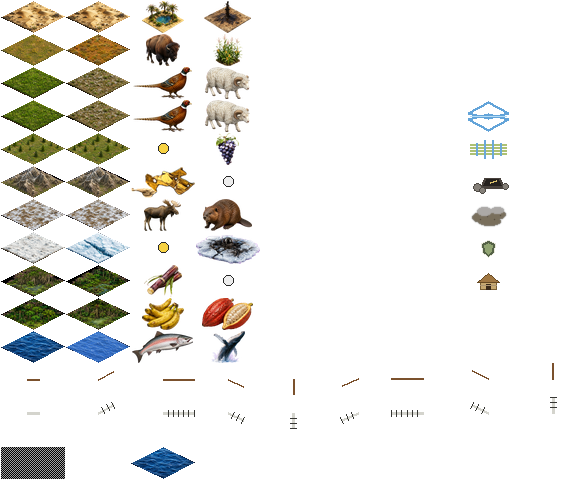
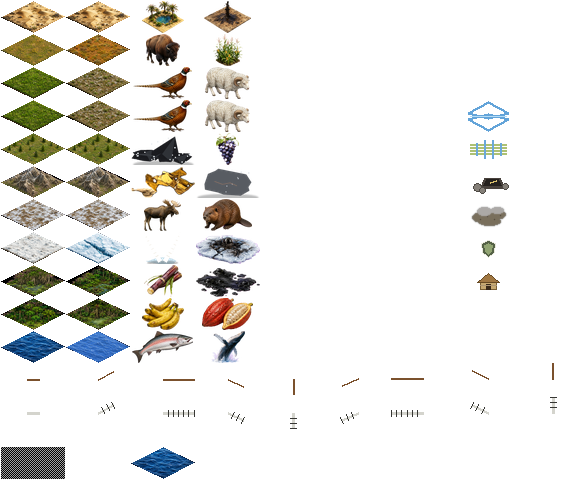
Paint the four special-resource markers left by issue #18
coal, iron, tusked ivory and the oil slick were still the flat disc
build_terrain1 draws when Specials/ has no art. A deterministic drawing
script keys them as 300x300 cutouts in the hand-made idiom; the slick is
keyed from the project-original oil_slick alt painting, the way #150 cut
the gold. TERRAIN1 regenerates with all rows painted.

diff --git a/scripts/generate_special_cutouts.py b/scripts/generate_special_cutouts.py
@@ -1,0 +1,345 @@
+#!/usr/bin/env python3
+"""Paint the four still-procedural special-resource markers as keyed cutouts.
+
+crhy/rhYciv#18 left coal (hills 1), iron (mountains 2), tusked ivory
+(glacier 1) and peat/oil (swamp 2) as the flat disc that
+build_standalone_sheets.build_terrain1 draws when Specials/ has no art. This
+script draws all four as 300x300 RGBA cutouts with transparent corners, in the
+hand-made idiom of docs/notes/rhyciv-generated-art-direction.md: irregular
+outlines, jittered detail, and the thing each resource communicates reading
+first -- a speckly coal lump, a banded grey ore rock, an ivory tusk pair, a
+black oil slick.
+
+Provenance (docs/ASSET-PROVENANCE.md): the three drawn markers are original
+vector work by this script; the swamp-2 slick is keyed out of the keyed
+project-original alt painting ~/rhYcivtextures/terrain/alts/oil_slick.png the
+same way #150 keyed mountains_1 out of Other/gold.jpg. Every marker is
+composed over its terrain diamond into a contact sheet for eye-checking.
+
+Usage:
+    python3 scripts/generate_special_cutouts.py [--check]
+"""
+
+from __future__ import annotations
+
+import argparse
+import math
+import random
+import sys
+from pathlib import Path
+
+import numpy as np
+from PIL import Image, ImageChops, ImageDraw, ImageFilter
+
+REPOSITORY = Path(__file__).resolve().parents[1]
+SPECIALS = REPOSITORY / "RaylibUI" / "FOSSart" / "Terrain" / "Specials"
+TERRAIN = REPOSITORY / "RaylibUI" / "FOSSart" / "Terrain"
+OIL_SOURCE = Path.home() / "rhYcivtextures" / "terrain" / "alts" / "oil_slick.png"
+PREVIEW_DIR = Path("/tmp/f242-previews")
+
+SIZE = 300       # the canvas every special cutout ships on
+SS = 2           # drawn supersampling factor; the 300x300 result is filtered down
+
+# The fallback discs in build_standalone_sheets we are replacing; nothing here
+# may land near these colours so the shipped markers stay distinguishable.
+DISC_YELLOW = (246, 205, 47)
+DISC_GREY = (235, 235, 235)
+
+# Ground line of the 300x300 slot: the bottom of the tile's far edge, where the
+# other specials bottom-anchor (mountains_1 alpha bbox ends at 299).
+GROUND = 296
+
+
+def _blob(cx: float, cy: float, rx: float, ry: float, rng: random.Random,
+          n: int = 11, wobble: float = 0.20) -> list[tuple[float, float]]:
+    """An irregular closed outline around an ellipse: jittered angles, jittered
+    radii. Nothing here comes out ruler-round."""
+    angles = sorted(rng.uniform(0.0, math.tau) for _ in range(n))
+    points = []
+    for a in angles:
+        k = rng.uniform(1.0 - wobble, 1.0 + wobble)
+        points.append((cx + rx * k * math.cos(a), cy + ry * k * math.sin(a)))
+    return points
+
+
+def _scale(points: list[tuple[float, float]], factor: int) -> list[tuple[float, float]]:
+    return [(x * factor, y * factor) for x, y in points]
+
+
+def _bezier(p0, p1, p2, steps: int = 28) -> list[tuple[float, float]]:
+    out = []
+    for i in range(steps + 1):
+        t = i / steps
+        mt = 1.0 - t
+        x = mt * mt * p0[0] + 2 * mt * t * p1[0] + t * t * p2[0]
+        y = mt * mt * p0[1] + 2 * mt * t * p1[1] + t * t * p2[1]
+        out.append((x, y))
+    return out
+
+
+def _tapered(center: list[tuple[float, float]], w0: float, w1: float) -> list[tuple[float, float]]:
+    """A closed outline around a polyline whose width tapers w0 -> w1."""
+    left, right = [], []
+    for i, (x, y) in enumerate(center):
+        px, py = center[max(i - 1, 0)]
+        nx, ny = center[min(i + 1, len(center) - 1)]
+        dx, dy = nx - px, ny - py
+        length = max(math.hypot(dx, dy), 1e-6)
+        nx, ny = -dy / length, dx / length
+        t = i / max(len(center) - 1, 1)
+        w = w0 + (w1 - w0) * t
+        left.append((x + nx * w, y + ny * w))
+        right.append((x - nx * w, y - ny * w))
+    return left + right[::-1]
+
+
+def _shadow(canvas: Image.Image, cx: float, cy: float, rx: float, ry: float) -> None:
+    """A soft grounding shadow so the lump sits on the tile instead of floating."""
+    layer = Image.new("RGBA", canvas.size, (0, 0, 0, 0))
+    ImageDraw.Draw(layer).ellipse(_scale([(cx - rx, cy - ry), (cx + rx, cy + ry)], SS),
+                                  fill=(12, 14, 16, 70))
+    canvas.alpha_composite(layer.filter(ImageFilter.GaussianBlur(3 * SS)))
+
+
+def _finish(canvas: Image.Image, name: str) -> Image.Image:
+    small = canvas.resize((SIZE, SIZE), Image.Resampling.LANCZOS)
+    alpha = small.getchannel("A")
+    bbox = alpha.getbbox()
+    if bbox is None:
+        raise SystemExit(f"{name}: empty marker")
+    print(f"  {name}  alpha bbox {bbox}")
+    return small
+
+
+def coal() -> Image.Image:
+    """hills 1: a rough coal lump with speckles."""
+    rng = random.Random(1918)
+    canvas = Image.new("RGBA", (SIZE * SS, SIZE * SS), (0, 0, 0, 0))
+    draw = ImageDraw.Draw(canvas)
+
+    lumps = [
+        _blob(150, 238, 84, 48, rng, 12, 0.24),
+        _blob(84, 262, 52, 30, rng, 10, 0.26),
+        _blob(216, 264, 44, 28, rng, 10, 0.26),
+    ]
+    _shadow(canvas, 150, GROUND + 2, 118, 16)
+    for pts in lumps:
+        draw.polygon(_scale(pts, SS), fill=(26, 27, 31, 255), outline=(15, 15, 18, 255))
+
+    # Facets: one or two broken planes per lump catching the light. Coal is
+    # angular and half-gloss, so the facets are flat triangles, not shading.
+    for pts in lumps:
+        xs = [p[0] for p in pts]
+        ys = [p[1] for p in pts]
+        mid_x, mid_y = sum(xs) / len(xs), sum(ys) / len(ys)
+        for _ in range(2):
+            a = rng.randrange(len(pts))
+            b = rng.randrange(len(pts))
+            apex = (mid_x + rng.uniform(-14, 14), mid_y + rng.uniform(-16, 8))
+            tri = [pts[a], pts[b], apex]
+            tone = rng.choice((41, 47, 55))
+            draw.polygon(_scale(tri, SS), fill=(tone, tone + 3, tone + 8, 255))
+
+    # Speckle: the glitter a coal seam reads as at a glance.
+    for pts in lumps:
+        xs = [p[0] for p in pts]
+        ys = [p[1] for p in pts]
+        for _ in range(9):
+            x = rng.uniform(min(xs) + 8, max(xs) - 8)
+            y = rng.uniform(min(ys) + 6, max(ys) - 6)
+            r = rng.uniform(1.6, 3.0)
+            draw.ellipse(_scale([(x - r, y - r), (x + r, y + r)], SS),
+                         fill=(222, 228, 234, rng.randint(150, 215)))
+    return _finish(canvas, "hills_1 (coal)")
+
+
+def iron() -> Image.Image:
+    """mountains 2: a banded grey ore rock."""
+    rng = random.Random(2027)
+    canvas = Image.new("RGBA", (SIZE * SS, SIZE * SS), (0, 0, 0, 0))
+    draw = ImageDraw.Draw(canvas)
+
+    rock = _blob(150, 232, 102, 56, rng, 13, 0.18)
+    _shadow(canvas, 150, GROUND + 2, 122, 15)
+    draw.polygon(_scale(rock, SS), fill=(88, 92, 98, 255), outline=(60, 62, 66, 255))
+
+    # Bands: wobbly strata drawn across the whole rock, then joined to its
+    # silhouette by a mask -- the bands end where the rock ends instead of
+    # lying on top of a hard outline.
+    mask = Image.new("L", canvas.size, 0)
+    ImageDraw.Draw(mask).polygon(_scale(rock, SS), fill=255)
+    bands = Image.new("RGBA", canvas.size, (0, 0, 0, 0))
+    bdraw = ImageDraw.Draw(bands)
+    tones = [(64, 67, 72), (118, 122, 128), (74, 77, 82), (138, 142, 148)]
+    y = 168.0
+    while y < GROUND - 4:
+        step = rng.uniform(15, 26)
+        pts = []
+        x = 26.0
+        while x <= 274.0:
+            pts.append((x, y + rng.uniform(-3.5, 3.5)))
+            x += rng.uniform(16, 30)
+        tone = tones[rng.randrange(len(tones))]
+        bdraw.line(pts, fill=(*tone, 255), width=rng.randint(6, 10))
+        y += step
+    bands = bands.filter(ImageFilter.GaussianBlur(0.8))
+    canvas.paste(bands, (0, 0), ImageChops.multiply(bands.getchannel("A"), mask))
+
+    # A few cold metallic flecks and one rust seam hint: ore reads grey first,
+    # so these stay small.
+    for _ in range(7):
+        x = rng.uniform(60, 240)
+        y = rng.uniform(180, 280)
+        r = rng.uniform(1.6, 2.8)
+        draw.ellipse(_scale([(x - r, y - r), (x + r, y + r)], SS),
+                     fill=(196, 202, 210, rng.randint(160, 220)))
+    draw.line(_scale([(96, 232), (128, 244), (158, 238), (186, 250)], SS),
+              fill=(132, 84, 58, 200), width=4)
+    return _finish(canvas, "mountains_2 (iron)")
+
+
+def ivory() -> Image.Image:
+    """glacier 1: a tusked ivory pair standing on a floe."""
+    rng = random.Random(1861)
+    canvas = Image.new("RGBA", (SIZE * SS, SIZE * SS), (0, 0, 0, 0))
+    draw = ImageDraw.Draw(canvas)
+
+    # A low ice floe roots the pair on the glacier tile.
+    floe = _blob(150, 282, 96, 24, rng, 12, 0.12)
+    draw.polygon(_scale(floe, SS), fill=(196, 219, 231, 255), outline=(150, 182, 199, 255))
+    draw.line(_scale([(70, 280), (120, 286), (180, 279), (228, 285)], SS),
+              fill=(238, 246, 250, 200), width=3)
+    _shadow(canvas, 150, 292, 100, 13)
+
+    for lean in (-1, 1):
+        base = (150 + 14 * lean, 284)
+        ctrl = (150 + 78 * lean, 186)
+        tip = (150 + 116 * lean, 96 + rng.uniform(-6, 6))
+        center = _bezier(base, ctrl, tip)
+        tusk = _tapered(center, 15.0, 2.5)
+        draw.polygon(_scale(tusk, SS), fill=(238, 231, 208, 255), outline=(190, 178, 150, 255))
+        # Schreger banding: short chevrons along the curve, drawn after the
+        # outline so they join to it instead of crossing it.
+        mask = Image.new("L", canvas.size, 0)
+        ImageDraw.Draw(mask).polygon(_scale(tusk, SS), fill=255)
+        rung = Image.new("RGBA", canvas.size, (0, 0, 0, 0))
+        rdraw = ImageDraw.Draw(rung)
+        for t in (0.18, 0.30, 0.44, 0.58, 0.72, 0.86):
+            i = int(t * len(center))
+            x, y = center[i]
+            px, py = center[max(i - 1, 0)]
+            nx, ny = center[min(i + 1, len(center) - 1)]
+            dx, dy = nx - px, ny - py
+            length = max(math.hypot(dx, dy), 1e-6)
+            nx, ny = -dy / length, dx / length
+            w = 15.0 + (2.5 - 15.0) * t
+            rdraw.line(_scale([(x - nx * w * 0.85, y - ny * w * 0.85),
+                               (x + nx * w * 0.85, y + ny * w * 0.85)], SS),
+                       fill=(205, 191, 160, 210), width=3)
+        canvas.paste(rung, (0, 0), mask)
+    return _finish(canvas, "glacier_1 (ivory)")
+
+
+def _despill(cut: Image.Image) -> Image.Image:
+    """Put the magenta matte's colour back where it never should have blended.
+
+    A frayed edge of the eroded cut keeps a matte-tinted pixel; on black oil
+    there is nothing magenta to save, so every matte-coloured pixel goes, exactly
+    what scripts/clean_matte_fringe.py reports as a leftover generation matte.
+    """
+    data = np.asarray(cut.convert("RGBA")).astype(np.float64)
+    matte = matte_like(data[..., 0], data[..., 1], data[..., 2], data[..., 3])
+    if matte.any():
+        data[..., 3][matte] = 0.0
+    return Image.fromarray(data.astype(np.uint8), "RGBA")
+
+
+def matte_like(r, g, b, a):
+    """clean_matte_fringe.py's matte test, so the two never disagree."""
+    return (a > 0) & (g < 45) & (np.minimum(r, b) - g > 90)
+
+
+def slick() -> Image.Image:
+    """swamp 2: the keyed oil-slick alt, cut the way #150 cut the gold."""
+    if not OIL_SOURCE.exists():
+        raise SystemExit(f"missing keyed source painting: {OIL_SOURCE}")
+    source = Image.open(OIL_SOURCE).convert("RGB")
+    src = source.resize((source.width // 3, source.height // 3), Image.Resampling.LANCZOS)
+
+    rgb = np.asarray(src).astype(int)
+    r, g, b = rgb[..., 0], rgb[..., 1], rgb[..., 2]
+    # The alt was painted on a saturated magenta matte; ink is everything else.
+    matte = (np.abs(r - 231) < 46) & (np.abs(g - 4) < 40) & (np.abs(b - 213) < 46)
+    ink = ~matte
+    alpha = Image.fromarray((ink * 255).astype(np.uint8), "L")
+    # Erode first so every matte-blended edge pixel is gone, not recoloured.
+    alpha = alpha.filter(ImageFilter.MinFilter(7)).filter(ImageFilter.MaxFilter(5))
+    alpha = alpha.filter(ImageFilter.GaussianBlur(1.6))
+    alpha = alpha.point(lambda v: 0 if v < 64 else v)
+    bbox = alpha.getbbox()
+    if bbox is None:
+        raise SystemExit("oil_slick.png: no ink outside the matte")
+    cut = src.convert("RGBA")
+    cut.putalpha(alpha)
+    cut = _despill(cut)
+    cut = cut.crop(bbox)
+
+    # Bottom-anchored at the footprint the other wide specials use
+    # (glacier_2's droplet spans the slot width).
+    scale = 282 / cut.width
+    cut = cut.resize((282, max(1, round(cut.height * scale))), Image.Resampling.LANCZOS)
+    cut = _despill(cut)
+    canvas = Image.new("RGBA", (SIZE, SIZE), (0, 0, 0, 0))
+    canvas.alpha_composite(cut, ((SIZE - cut.width) // 2, GROUND + 4 - cut.height))
+    return _finish(canvas, "swamp_2 (oil slick)")
+
+
+def preview(name: str, terrain: str, marker: Image.Image) -> None:
+    """Each marker over its terrain diamond: the contact sheet rhY checks by eye."""
+    with Image.open(TERRAIN / f"{terrain}.png") as loaded:
+        tile = loaded.convert("RGBA")
+    sheet = Image.new("RGBA", (600, 300), (0, 0, 0, 0))
+    sheet.alpha_composite(tile.resize((600, 300), Image.Resampling.LANCZOS), (0, 0))
+    sheet.alpha_composite(marker, ((600 - SIZE) // 2, 300 - SIZE))
+    PREVIEW_DIR.mkdir(parents=True, exist_ok=True)
+    sheet.save(PREVIEW_DIR / f"{name}.png")
+
+
+def generate() -> dict[str, Image.Image]:
+    markers = {
+        "hills_1": (coal(), "hills"),
+        "mountains_2": (iron(), "mountains"),
+        "glacier_1": (ivory(), "glacier"),
+        "swamp_2": (slick(), "swamp"),
+    }
+    for name, (marker, terrain) in markers.items():
+        preview(name, terrain, marker)
+    return {name: marker for name, (marker, _) in markers.items()}
+
+
+def main() -> int:
+    parser = argparse.ArgumentParser()
+    parser.add_argument("--check", action="store_true", help="fail if a shipped cutout is stale")
+    args = parser.parse_args()
+
+    generated = generate()
+    if args.check:
+        for name, marker in generated.items():
+            path = SPECIALS / f"{name}.png"
+            with Image.open(path) as shipped:
+                if shipped.convert("RGBA").tobytes() != marker.tobytes():
+                    print(f"stale {path.relative_to(REPOSITORY)}; re-run "
+                          "scripts/generate_special_cutouts.py", file=sys.stderr)
+                    return 1
+            print(f"ok {path.relative_to(REPOSITORY)}")
+        return 0
+
+    SPECIALS.mkdir(parents=True, exist_ok=True)
+    for name, marker in generated.items():
+        marker.save(SPECIALS / f"{name}.png", "PNG", optimize=True, compress_level=9)
+    print(f"previews: {PREVIEW_DIR}")
+    return 0
+
+
+if __name__ == "__main__":
+    raise SystemExit(main())

diff --git a/scripts/generate_asset_manifest.py b/scripts/generate_asset_manifest.py
@@ -82,6 +82,23 @@ def attribution(relative: str) -> tuple[str, str, str, str, str]:
             "project-original Civilopedia art listed in this manifest",
             "scripts/build_foss_icons.sh",
         )
+    if relative in {
+        "RaylibUI/FOSSart/Terrain/Specials/hills_1.png",
+        "RaylibUI/FOSSart/Terrain/Specials/mountains_2.png",
+        "RaylibUI/FOSSart/Terrain/Specials/glacier_1.png",
+        "RaylibUI/FOSSart/Terrain/Specials/swamp_2.png",
+    }:
+        # Painted for issue crhy/rhYciv#18 by a deterministic drawing script.
+        # The three drawn markers are original vector work; the swamp-2 slick
+        # is keyed out of the project-original oil-slick alt painting, the way
+        # #150 keyed mountains_1 out of Other/gold.jpg.
+        return (
+            "generated-project-art",
+            "crhy and rhYciv contributors",
+            "GPL-3.0-only",
+            "docs/TEXTURE-GAP.md; input ~/rhYcivtextures/terrain/alts/oil_slick.png (swamp_2)",
+            "scripts/generate_special_cutouts.py",
+        )
     if relative.startswith("RaylibUI/FOSSart/"):
         generator = "none"
         if "/People/" in f"/{relative}":
